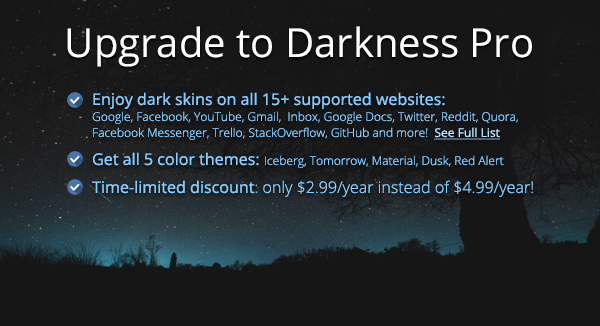
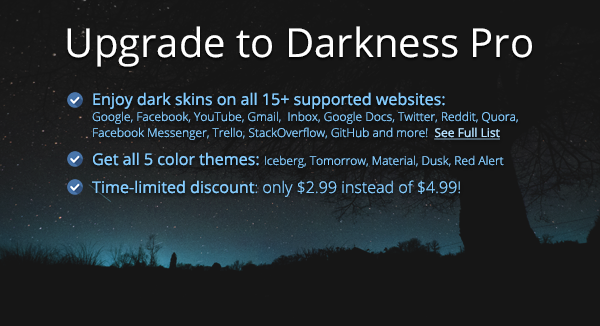
Reverted SKUs and dialog

Changed region(s): [[0.57, 0.5521, 0.9, 0.6135]]

diff --git a/chrome-extension/html/settings.html b/chrome-extension/html/settings.html
@@ -191,14 +191,14 @@
 				<div class="drk_button_dialog_wrapper">
 					<div class="drk_button_dialog drk_inline drk_bold drk_buy_life">
 						<div class="upg_btn1">Upgrade now</div>
-						<div class="upg_btn2">Only $4.99/yr</div>
+						<div class="upg_btn2">$4.99 one time payment</div>
 					</div>
 					<!-- The Standard PayPal form (hidden) -->
 					<form action="https://www.paypal.com/cgi-bin/webscr" method="post" target="_blank" id="drk_paypal_form">
 						<input type="hidden" name="cmd" value="_s-xclick">
 						<input type="hidden" name="notify_url" value="http://lifehacklabs.org/api/ipn">
 						<input type="hidden" name="custom" id="drk_paypal_custom" value='{}'>
-						<input type="hidden" name="hosted_button_id" id="drk_paypal_button_id" value="LGXAKGR9UZT5J">
+						<input type="hidden" name="hosted_button_id" id="drk_paypal_button_id" value="Z9BBUN4PDFGKQ">
 						<input type="image" src="https://www.paypalobjects.com/en_US/i/btn/btn_buynowCC_LG.gif" border="0" name="submit" alt="PayPal - The safer, easier way to pay online!">
 						<img alt="" border="0" src="https://www.paypalobjects.com/en_US/i/scr/pixel.gif" width="1" height="1">
 					</form>
@@ -223,14 +223,14 @@
 				<div class="drk_button_dialog_wrapper">
 					<div class="drk_button_dialog drk_inline drk_bold drk_buy_life">
 						<div class="upg_btn1">Upgrade now</div>
-						<div class="upg_btn2">Only $2.99/yr</div>
+						<div class="upg_btn2">$2.99 one time payment</div>
 					</div>
 					<!-- The Standard PayPal form (hidden) -->
 					<form action="https://www.paypal.com/cgi-bin/webscr" method="post" target="_blank" id="drk_paypal_form">
 						<input type="hidden" name="cmd" value="_s-xclick">
 						<input type="hidden" name="notify_url" value="http://lifehacklabs.org/api/ipn">
 						<input type="hidden" name="custom" id="drk_paypal_custom" value='{}'>
-						<input type="hidden" name="hosted_button_id" id="drk_paypal_button_id" value="TYMEVJBHQRTUU">
+						<input type="hidden" name="hosted_button_id" id="drk_paypal_button_id" value="Z9BBUN4PDFGKQ">
 						<input type="image" src="https://www.paypalobjects.com/en_US/i/btn/btn_buynowCC_LG.gif" border="0" name="submit" alt="PayPal - The safer, easier way to pay online!">
 						<img alt="" border="0" src="https://www.paypalobjects.com/en_US/i/scr/pixel.gif" width="1" height="1">
 					</form>

diff --git a/chrome-extension/js/settings.js b/chrome-extension/js/settings.js
@@ -167,8 +167,8 @@ if (!DarknessSettingsLoader) {
 			
 			// What's the PayPal button ID?
 			var paypalButtonId = '';
-			if (SKU == "1") paypalButtonId = prod ? 'LGXAKGR9UZT5J' : 'Z9G4SAEXAQAQE';
-			if (SKU == "2") paypalButtonId = prod ? 'TYMEVJBHQRTUU' : 'HQQUR4X6PZ8KG';
+			if (SKU == "1") paypalButtonId = prod ? 'Z9BBUN4PDFGKQ' : 'JFYWCRAJW64EN';
+			if (SKU == "2") paypalButtonId = prod ? 'U59U55TCYJMHQ' : 'LMQAHVFLAGHK2';
 			$('#drk_paypal_button_id').attr('value', paypalButtonId);
 
 			// Add custom data to each PayPal transaction
